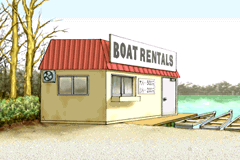
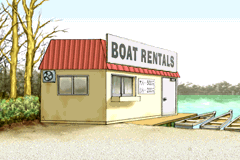
Boat rental sign: the DS's own sign board, pixel for pixel
v0.7.48 built "BOAT RENTALS" letter by letter on the GBA board (letters
narrowed, word space shortened, each letter's height scaled), and it
didn't look like the DS sign. Now the whole DS sign board (frame, board
and lettering) goes on unscaled and unchanged. The DS repainted the house
but its sign board is the GBA's: the same height and slant, 3 px wider.
Moved -18,-12 its right frame, top and bottom edges lie on the GBA
board's; the extra 3 px cover the roof behind the left frame. The GBA
board is cleared first (24 px of its top edge line, a row above the DS
board's, become sky); the light outer edge of the DS frames goes on the
GBA sky only. Colours: the picture's nearest (mean difference 11 over
RGB, max 35). Only this picture changes.

Claude-Session: https://claude.ai/code/session_01SUsKQpDV9RG9kScWUHPdGG

Changed region(s): [[0.4375, 0.1875, 0.7583, 0.4688]]

diff --git a/tools/en/port_backgrounds.py b/tools/en/port_backgrounds.py
@@ -12,8 +12,9 @@ English copy of every background with writing on it. For each one:
      Japanese patch against it (position and scale: a few DS backgrounds are
      reframed, e.g. the Steel Samurai title card);
   3. only those pixels are replaced, with the DS English pixels, in the GBA
-     picture's own palette. The boat rental sign is done letter by letter
-     instead (port_boat_sign): shrunk, its lettering came out soft.
+     picture's own palette. The boat rental sign is the DS's sign board
+     itself, pixel for pixel (port_boat_sign): shrunk, its lettering came
+     out soft.
 
 Everything else stays the GBA original. The evidence documents (Maya's phone
 call, the DL-6 case file) are pages of text: the DS English lines replace the
@@ -278,116 +279,73 @@ def port_signs(label, jp_base, en_base, report):
                          (', moved into the picture ' + ' '.join(moved)) if moved else ''))
     save_gba(path, out, rawpal)
 
-# The boat rental sign, letter by letter. The GBA's sign board is drawn 94.5%
-# as large as the DS's, and "BOAT RENTALS" shrunk to fit it (port_signs) came
-# out soft, with grey and pale blue specks, and a pixel of the first Japanese
-# character left above the B. Here the GBA board is cleared of the Japanese
-# writing and each DS letter goes on with the DS's own pixels, unscaled. The
-# word has to be 3 columns narrower than on the DS: a column comes out of the
-# middle of the B and of the O (the one most like its neighbour), and the
-# space between the words is 2 columns instead of 3; the other gaps are the
-# DS's. Each letter's height on the board is the DS's, scaled. Colours: the
-# picture's greys only (its nearest colour to a light grey edge pixel was
-# sometimes a pale blue of the sky or the lake).
+# The boat rental sign: the DS's own sign board, pixel for pixel (frame,
+# board and lettering, unscaled). The DS repainted the boat rental (a gabled
+# roof), but its sign board is the GBA's: the same height, the same slant of
+# the top and bottom edges, 3 px wider. Moved by BOAT_SHIFT, its right frame,
+# top edge and bottom edge lie on the GBA board's (to a row), and it reaches
+# 3 px further left, over the roof behind the GBA board's left frame. The
+# GBA board (with the Japanese writing) goes first; the few pixels of its top
+# edge the DS board doesn't cover become sky. The light outer edge of the DS
+# frames goes on the GBA sky only (beside it, the DS has its roof and the
+# post behind the sign). Colours: the GBA picture's nearest (every one of its
+# 224 is in use).
 BOAT_SIGN = 'gGfx_BG077_GourdLakeBoatRental'
-BOAT_BOARD = (112, 174)              # inside the GBA board's side frames (x 109-111, 175-176)
-BOAT_ROOF = ((111, 62), (175, 72))   # the roof's top edge under the board (its grey edge a row above)
-BOAT_NARROWER = (0, 1)               # the letters a column comes out of: B, O
-BOAT_TOP_SCAN = 30                   # the board's top edge is looked for from row 30 down (above: the sky's blue)
-BOAT_DS_FRAME = 125                  # the DS board's left frame (x 124-125): the letters start right of it
+BOAT_DS_COLS = (124, 194)         # the DS board: its left frame (x 124-125) to its right frame (x 194)
+BOAT_DS_EDGES = (123, 195)        # the light outer edge of the DS frames
+BOAT_GBA_COLS = (108, 176)        # the GBA board: the left frame's light edge (x 108) to the right frame
+BOAT_SHIFT = (-18, -12)           # DS -> GBA
+BOAT_SCAN = (40, 25)              # the boards' top edges are looked for from these rows down (DS, GBA)
+
+def board_column(rgb, x, y, sky):
+    """rows of the sign board in column x: from its top edge (the first pixel
+    below the sky) to its bottom edge (the last above the red of the roof)"""
+    red = lambda p: int(p[0]) - int(p[1]) >= 60
+    while sky(rgb[y, x]):
+        y += 1
+    top = y
+    while not red(rgb[y, x]):
+        y += 1
+    return top, y - 1
 
 def port_boat_sign(label, jp_base, en_base, report):
     path, idx, pal, rawpal = load_gba(label)
-    gba_rgb = pal[idx]
-    lum = gba_rgb.astype(int) @ [0.3, 0.59, 0.11]
-    jp, en = ds_rgb(jp_base), ds_rgb(en_base)
-    el = en.astype(int) @ [0.3, 0.59, 0.11]
+    gba = pal[idx]
+    en = ds_rgb(en_base)
     usable = sorted(set(np.unique(idx)))
-    (y0, y1, x0, x1, mask, specks), = text_regions(jp, en)
-    M = 10
-    y0, x0 = max(0, y0 - M), max(0, x0 - M)
-    y1, x1 = min(jp.shape[0], y1 + M), min(jp.shape[1], x1 + M)
-    mx = (jp.shape[1] - gba_rgb.shape[1]) // 2
-    coarse = locate(gba_rgb, jp[y0:y1, x0:x1], np.arange(0.85, 1.155, 0.01), (x0 - mx, y0 - 16))
-    fine = locate(gba_rgb, jp[y0:y1, x0:x1], np.arange(coarse[1] - 0.01, coarse[1] + 0.0101, 0.0025))
-    score, s, gx, gy = min(coarse, fine) if fine else coarse
-    h, w = int(round((y1 - y0) * s)), int(round((x1 - x0) * s))
-    m = cv2.resize(mask[y0:y1, x0:x1].astype(np.uint8), (w, h), interpolation=cv2.INTER_NEAREST) > 0
-    patch = np.zeros(idx.shape, bool)
-    ys, xs = np.nonzero(m)
-    patch[gy + ys, gx + xs] = True
-    # 1. clear the Japanese writing: the patch and a pixel around it (the faint
-    # top of the first character lay just outside it), inside the board only:
-    # below its top edge line (the first run of grey from the top of each
-    # column), between the side frames, above the roof's grey edge
-    patch = ndimage.binary_dilation(patch, structure=np.ones((3, 3)))
-    paper = max(usable, key=lambda i: int(pal[i].astype(int).sum()))
+    ds_sky = lambda p: p[1] == 248 and p[2] == 248
+    gba_sky = lambda p: min(p) >= 250
+    sky = [u for u in usable if min(pal[u]) == 255][0]
+    dx, dy = BOAT_SHIFT
     out = idx.copy()
-    board = np.zeros(idx.shape, bool)
-    (rx0, ry0), (rx1, ry1) = BOAT_ROOF
-    for x in range(BOAT_BOARD[0], BOAT_BOARD[1] + 1):
-        roof = int(round(ry0 + (x - rx0) * (ry1 - ry0) / (rx1 - rx0)))
-        y = BOAT_TOP_SCAN
-        while lum[y, x] >= 250:
-            y += 1
-        while lum[y, x] < 250:
-            y += 1
-        board[y:roof - 1, x] = True
-    out[patch & board] = paper
-    # 2. the DS letters: their dark cores (4-connected, so letters stay apart;
-    # pieces of the DS board's frame and bottom edge left out: they are left of
-    # the letters or not as tall as one), each with the light edge pixels around it
-    area = np.zeros(el.shape, bool)
-    area[y0:y1, x0:x1] = ndimage.binary_dilation(mask, iterations=2)[y0:y1, x0:x1]
-    ink = area & (el < 244)
-    core = ink & (el < 200)
-    lab, n = ndimage.label(core)
-    def letter(k):
-        ys, xs = np.nonzero(lab == k)
-        return len(xs) >= 6 and ys.max() - ys.min() >= 8 and xs.min() > BOAT_DS_FRAME
-    keep = sorted([k for k in range(1, n + 1) if letter(k)], key=lambda k: np.nonzero(lab == k)[1].min())
-    dist, (iy, ix) = ndimage.distance_transform_edt(~np.isin(lab, keep), return_indices=True)
-    owner = np.where(ink & (dist <= 1.5), lab[iy, ix], 0)
-    pieces = []
-    for k in keep:
-        ys, xs = np.nonzero(owner == k)
-        a = np.full((ys.max() - ys.min() + 1, xs.max() - xs.min() + 1, 3), -1)
-        a[ys - ys.min(), xs - xs.min()] = en[ys, xs]
-        pieces.append([int(xs.min()), int(ys.min()), a, a.shape[1]])
-    for i in BOAT_NARROWER:
-        a = pieces[i][2]
-        def change(c):
-            A, B = a[:, c].astype(float), a[:, c + 1].astype(float)
-            A[A < 0] = 255
-            B[B < 0] = 255
-            return np.abs(A - B).sum()
-        c = min(range(2, a.shape[1] - 3), key=change)
-        pieces[i][2] = np.concatenate([a[:, :c], a[:, c + 1:]], 1)
-    lab_pal = cv2.cvtColor(pal[usable].astype(np.uint8).reshape(-1, 1, 3), cv2.COLOR_RGB2LAB).reshape(-1, 3).astype(int)
-    greys = [u for u, l in zip(usable, lab_pal)
-             if abs(l[1] - 128) <= 4 and abs(l[2] - 128) <= 6 and int(pal[u][2]) - int(pal[u][0]) <= 4]
-    def nearest_grey(rgb):
-        c = cv2.cvtColor(pal[greys].astype(np.uint8).reshape(-1, 1, 3), cv2.COLOR_RGB2LAB).reshape(-1, 3).astype(np.float32)
-        p = cv2.cvtColor(rgb.astype(np.uint8).reshape(-1, 1, 3), cv2.COLOR_RGB2LAB).reshape(-1, 3).astype(np.float32)
-        return np.array(greys)[((p[:, None, :] - c[None, :, :]) ** 2).sum(2).argmin(1)]
-    X = None
-    right_ds = None
-    placed = []
-    for dx0, dy0, a, w_ds in pieces:
-        ph, pw = a.shape[:2]
-        if X is None:
-            X0 = int(round(gx + s * (dx0 - x0)))
-        else:
-            gap = dx0 - right_ds - 1
-            X0 = X + (gap - 1 if gap >= 3 else gap)      # the word space: 2 columns
-        Y0 = int(round(gy + s * (dy0 + (ph - 1) / 2 - y0) - (ph - 1) / 2))
-        ys, xs = np.nonzero(a[:, :, 0] >= 0)
-        assert board[Y0 + ys, X0 + xs].all(), 'a letter off the board'
-        out[Y0 + ys, X0 + xs] = nearest_grey(a[ys, xs])
-        placed.append('%d-%d' % (X0, X0 + pw - 1))
-        X, right_ds = X0 + pw, dx0 + w_ds - 1
-    report.append('  board cleared (%d px), %d letter pieces at x %s, letters from DS (%d,%d), scale %.3f'
-                  % (int((patch & board).sum()), len(pieces), ' '.join(placed), x0, y0, s))
+    gba_board = np.zeros(idx.shape, bool)
+    for x in range(BOAT_GBA_COLS[0], BOAT_GBA_COLS[1] + 1):
+        t, b = board_column(gba, x, BOAT_SCAN[1], gba_sky)
+        gba_board[t:b + 1, x] = True
+    out[gba_board] = sky
+    ds_board = np.zeros(idx.shape, bool)
+    for x in range(BOAT_DS_COLS[0], BOAT_DS_COLS[1] + 1):
+        t, b = board_column(en, x, BOAT_SCAN[0], ds_sky)
+        ys = np.arange(t, b + 1)
+        out[ys + dy, x + dx] = nearest(en[ys, x], pal, usable)
+        ds_board[ys + dy, x + dx] = True
+    edges = 0
+    for x, frame in zip(BOAT_DS_EDGES, BOAT_DS_COLS):
+        t, b = board_column(en, frame, BOAT_SCAN[0], ds_sky)
+        for y in range(t, b + 2):
+            Y, X = y + dy, x + dx
+            p = en[y, x]
+            if not ds_sky(p) and int(p.sum()) > 600 and gba_sky(gba[Y, X]) and not gba_board[Y, X]:
+                out[Y, X] = nearest(p[None], pal, usable)[0]
+                edges += 1
+    # what the DS board doesn't cover of the GBA one: only pixels of its top
+    # edge line, a row above the DS board's (no gap between board and roof)
+    left = gba_board & ~ds_board
+    for y, x in zip(*np.nonzero(left)):
+        assert not ds_board[:y, x].any(), (x, y)
+    err = np.abs(pal[out[ds_board]].astype(int) - en[np.nonzero(ds_board)[0] - dy, np.nonzero(ds_board)[1] - dx]).sum(1)
+    report.append('  DS sign board (%d px, + %d of its frame edges) moved %+d,%+d; GBA board (%d px) cleared, %d px of its top edge left as sky; colour difference mean %.1f, max %d'
+                  % (int(ds_board.sum()), edges, dx, dy, int(gba_board.sum()), int(left.sum()), err.mean(), err.max()))
     save_gba(path, out, rawpal)
 
 # ------------------------------------------------------------------ documents
